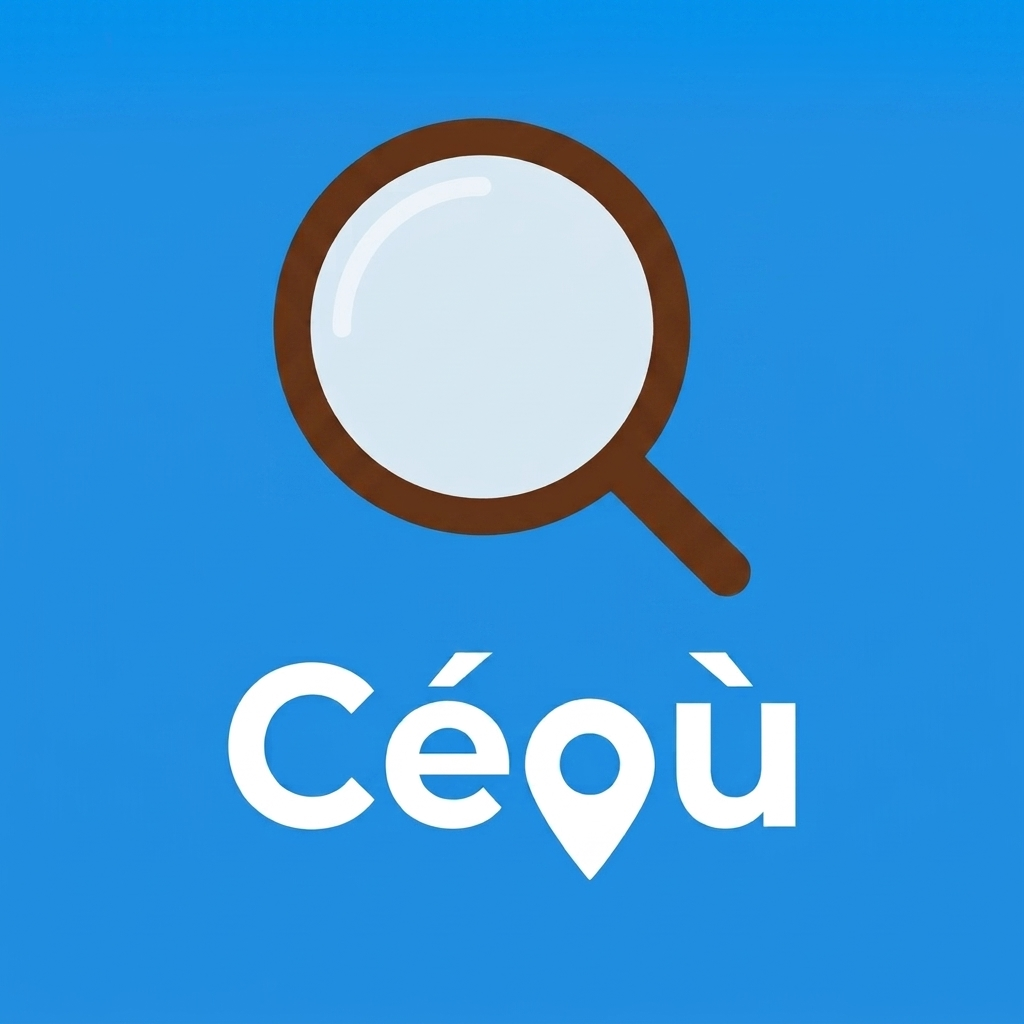
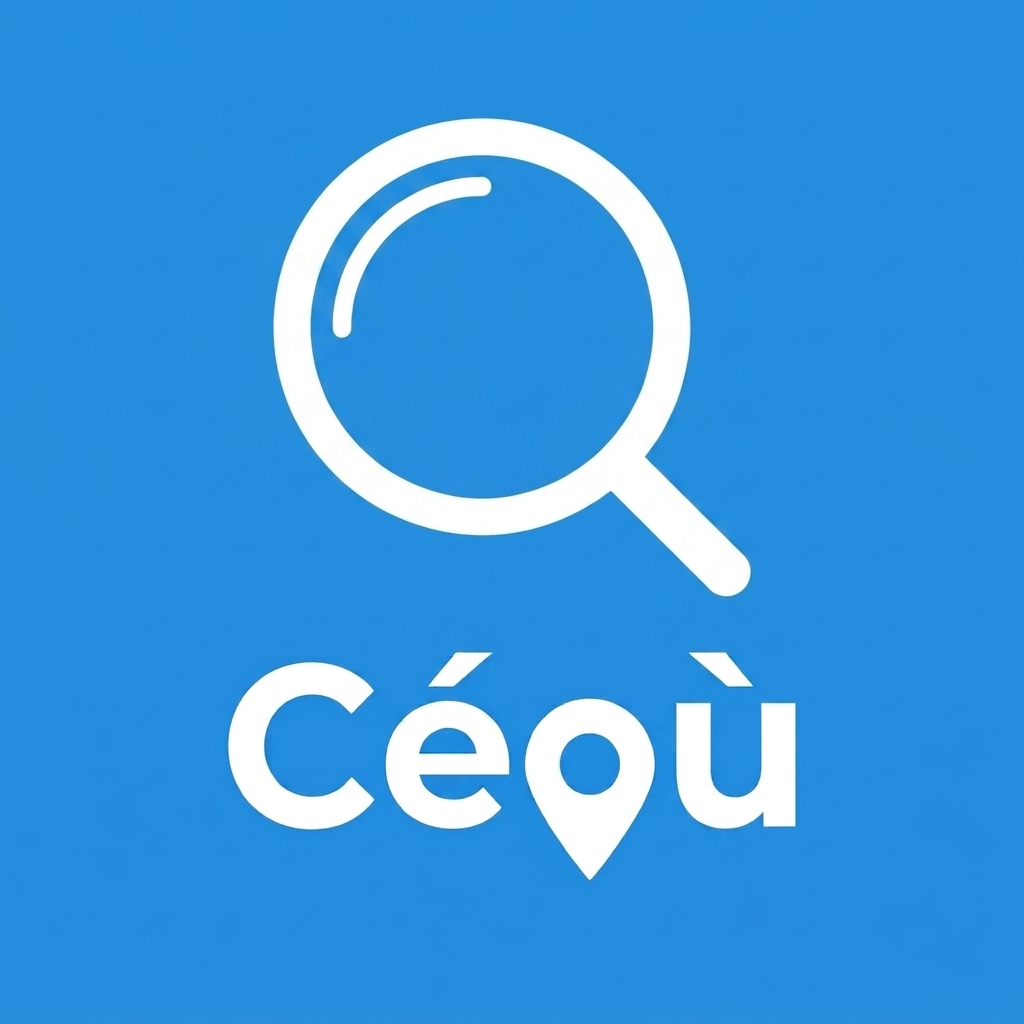
Nouvelle icone d'application, generee depuis une source unique
L'illustration fournie (assets/app_icon.png) devient la SOURCE de tous les
assets d'icone, produits par scripts/generate-icons.js.

Deux pieges traites, qu'un simple copier-coller aurait manques :

1. Le fichier est un JPEG malgre son extension .png (signature ff d8 ff e0 /
   JFIF, verifiee). Il n'a donc aucune couche alpha, et Expo attend du PNG.
   Tout est reencode.

2. Android masque l'icone adaptative a un cercle/squircle et ne garantit que
   les 72dp centraux sur 108, soit 66,7 %. Poser l'illustration pleine page
   en avant-plan aurait coupe le mot "Ceou", qui vit en bas du dessin. Le
   glyphe est donc inscrit dans cette zone sure.

Le glyphe blanc est DETOURE de son aplat plutot que recopie avec son fond :
les deux couches d'une icone adaptative se decalent l'une par rapport a
l'autre quand un lanceur applique son effet de parallaxe, et un avant-plan
qui embarque son propre fond ferait alors apparaitre un carre. Le detourage
se fait sur l'ecart de luminance et non par remplacement d'une couleur
exacte -- l'illustration etant un aplat (bords echantillonnes uniformes aux
quatre coins a #3998E0) avec un dessin blanc, cela reconstruit une
transparence correcte y compris sur les bords anticreneles, la ou un
remplacement de couleur laisserait un lisere bleu autour de chaque courbe.

La couleur de fond adaptatif est ECHANTILLONNEE sur un coin de
l'illustration, pas codee en dur : une future icone d'une autre teinte
[…]

Changed region(s): [[0.25, 0.0938, 0.75, 0.5938], [0.0, 0.0, 1.0, 0.0625]]

diff --git a/scripts/generate-icons.js b/scripts/generate-icons.js
@@ -1,0 +1,130 @@
+/*
+ * Génère tous les assets d'icône à partir d'UNE seule source : assets/app_icon.png
+ *
+ * POURQUOI CE SCRIPT : les icônes ne sont pas un simple redimensionnement.
+ * Android masque l'icône adaptative à un cercle/squircle et ne garantit que
+ * le CENTRE de l'image — coller l'illustration pleine page en avant-plan
+ * couperait le mot « Céoù » qui vit en bas. Il faut donc trois traitements
+ * différents selon la cible, et les refaire à la main à chaque itération
+ * d'icône serait une source d'erreur silencieuse.
+ *
+ * COMMENT LE LANCER (sharp n'est volontairement PAS une dépendance du
+ * projet — c'est un binaire natif, et `npm ci` sur EAS a déjà été cassé une
+ * fois par ce genre d'ajout, cf. commit 0c6f9ea) :
+ *
+ *   mkdir -p /tmp/imgtools && cd /tmp/imgtools && npm init -y && npm i sharp
+ *   cd <racine du projet>
+ *   SHARP=/tmp/imgtools/node_modules/sharp node scripts/generate-icons.js
+ *
+ * La source peut être un JPEG malgré son extension .png (c'est le cas
+ * aujourd'hui) : tout est réencodé en PNG de toute façon.
+ */
+
+const path = require('path');
+const sharp = require(process.env.SHARP || 'sharp');
+
+const SRC = 'assets/app_icon.png';
+
+// Android : l'icône adaptative fait 108dp dont seuls les 72dp centraux sont
+// garantis visibles, soit 66,7 %. On inscrit le dessin dans cette zone sûre
+// plutôt que de le laisser déborder — sinon le masque du lanceur rogne.
+const SAFE_ZONE = 0.667;
+
+const FOREGROUND_SIZE = 512;
+const MONOCHROME_SIZE = 432;
+
+/**
+ * Détoure le glyphe clair de son fond uni.
+ *
+ * L'illustration est en aplat (bords échantillonnés à #3998E0, uniformes aux
+ * quatre coins) et le dessin est blanc : l'écart de luminance suffit donc à
+ * reconstruire une transparence propre, y compris sur les bords anticrénelés,
+ * là où un simple « remplace telle couleur par du transparent » laisserait
+ * un liseré bleu autour de chaque courbe.
+ */
+async function extractGlyph(color) {
+  const { data, info } = await sharp(SRC).ensureAlpha().raw().toBuffer({ resolveWithObject: true });
+  const { width, height, channels } = info;
+
+  // Luminance perçue du fond : sert de plancher. Tout ce qui est plus clair
+  // devient d'autant plus opaque.
+  const first = data[0];
+  const bgLuma = 0.2126 * data[0] + 0.7152 * data[1] + 0.0722 * data[2];
+  void first;
+
+  const out = Buffer.alloc(width * height * 4);
+  for (let i = 0, o = 0; i < data.length; i += channels, o += 4) {
+    const luma = 0.2126 * data[i] + 0.7152 * data[i + 1] + 0.0722 * data[i + 2];
+    const alpha = Math.max(0, Math.min(255, Math.round(((luma - bgLuma) / (255 - bgLuma)) * 255)));
+    out[o] = color[0];
+    out[o + 1] = color[1];
+    out[o + 2] = color[2];
+    out[o + 3] = alpha;
+  }
+
+  return sharp(out, { raw: { width, height, channels: 4 } }).png();
+}
+
+/** Inscrit une image dans la zone sûre, centrée sur un canevas transparent. */
+async function insetInSafeZone(pngBuffer, size) {
+  const inner = Math.round(size * SAFE_ZONE);
+  const scaled = await sharp(pngBuffer).resize(inner, inner, { fit: 'contain', background: { r: 0, g: 0, b: 0, alpha: 0 } }).toBuffer();
+  const pad = Math.round((size - inner) / 2);
+  return sharp({
+    create: { width: size, height: size, channels: 4, background: { r: 0, g: 0, b: 0, alpha: 0 } },
+  })
+    .composite([{ input: scaled, top: pad, left: pad }])
+    .png()
+    .toBuffer();
+}
+
+async function main() {
+  const meta = await sharp(SRC).metadata();
+  console.log(`source : ${SRC} — ${meta.format} ${meta.width}x${meta.height}`);
+
+  // Couleur de fond réelle, échantillonnée sur un coin plutôt que codée en
+  // dur : si l'illustration change de teinte, le fond adaptatif suit.
+  const corner = await sharp(SRC).extract({ left: 0, top: 0, width: 24, height: 24 }).stats();
+  const rgb = corner.channels.slice(0, 3).map((c) => Math.round(c.mean));
+  const hex = '#' + rgb.map((v) => v.toString(16).padStart(2, '0')).join('').toUpperCase();
+  console.log(`fond détecté : ${hex}`);
+
+  // 1. Icône principale (iOS + repli) : pleine page, opaque, telle quelle.
+  await sharp(SRC).resize(1024, 1024).flatten({ background: hex }).png().toFile('assets/icon.png');
+  console.log('  icon.png                   1024x1024  pleine page');
+
+  // 2. Favicon web.
+  await sharp(SRC).resize(48, 48).flatten({ background: hex }).png().toFile('assets/favicon.png');
+  console.log('  favicon.png                  48x48    pleine page');
+
+  // 3. Fond de l'icône adaptative : aplat de la couleur détectée.
+  await sharp({
+    create: { width: FOREGROUND_SIZE, height: FOREGROUND_SIZE, channels: 4, background: { r: rgb[0], g: rgb[1], b: rgb[2], alpha: 1 } },
+  })
+    .png()
+    .toFile('assets/android-icon-background.png');
+  console.log(`  android-icon-background.png 512x512    aplat ${hex}`);
+
+  // 4. Avant-plan : le glyphe blanc détouré, inscrit dans la zone sûre. Le
+  //    fond bleu ne doit PAS y figurer, sinon il se superposerait à la
+  //    couche de fond et un carré apparaîtrait dès qu'un lanceur applique
+  //    son effet de parallaxe entre les deux couches.
+  const whiteGlyph = await (await extractGlyph([255, 255, 255])).toBuffer();
+  await sharp(await insetInSafeZone(whiteGlyph, FOREGROUND_SIZE)).toFile('assets/android-icon-foreground.png');
+  console.log('  android-icon-foreground.png 512x512    glyphe détouré, zone sûre');
+
+  // 5. Icône monochrome (thème Android 13+) : le système la recolore
+  //    lui-même, elle doit donc être une silhouette et non un dessin coloré.
+  const blackGlyph = await (await extractGlyph([0, 0, 0])).toBuffer();
+  await sharp(await insetInSafeZone(blackGlyph, MONOCHROME_SIZE)).toFile('assets/android-icon-monochrome.png');
+  console.log('  android-icon-monochrome.png 432x432    silhouette, zone sûre');
+
+  console.log('\nTermine. Les icones natives demandent un NOUVEAU BUILD EAS : une');
+  console.log('mise a jour OTA ne peut pas les remplacer.');
+}
+
+main().catch((error) => {
+  console.error(`Echec : ${error.message}`);
+  console.error(`Astuce : lancer avec SHARP=<chemin>/node_modules/sharp node ${path.basename(__filename)}`);
+  process.exit(1);
+});
